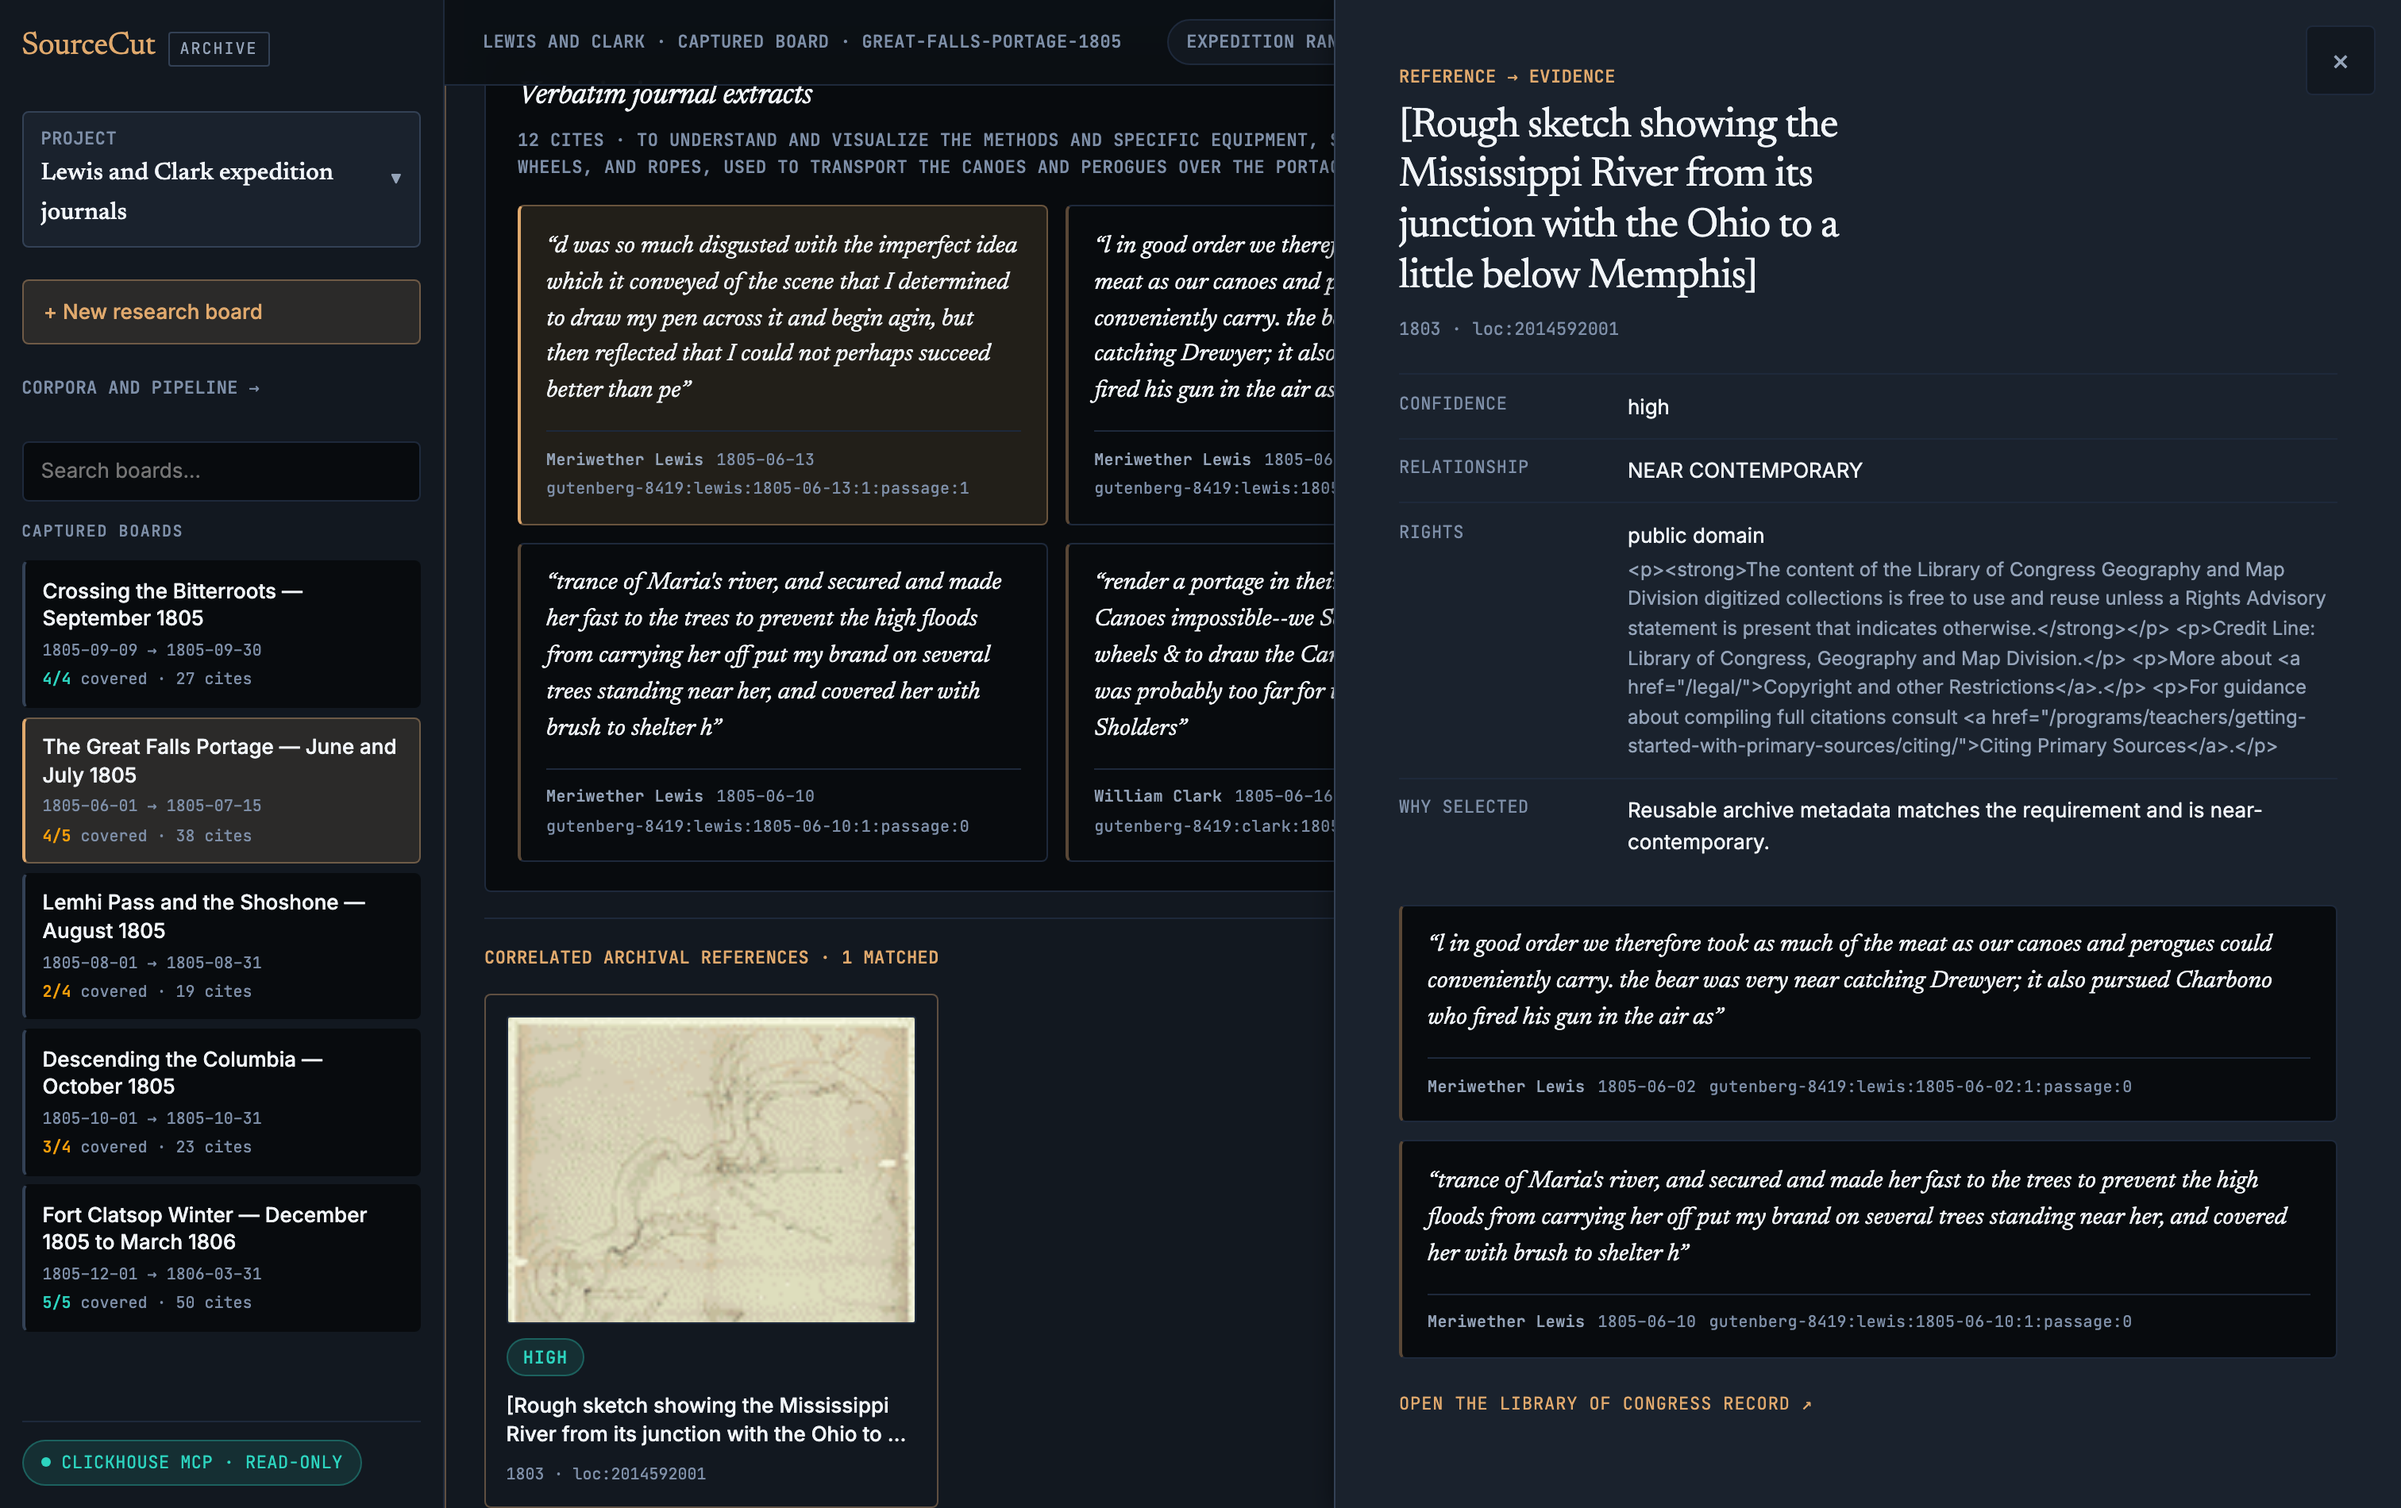
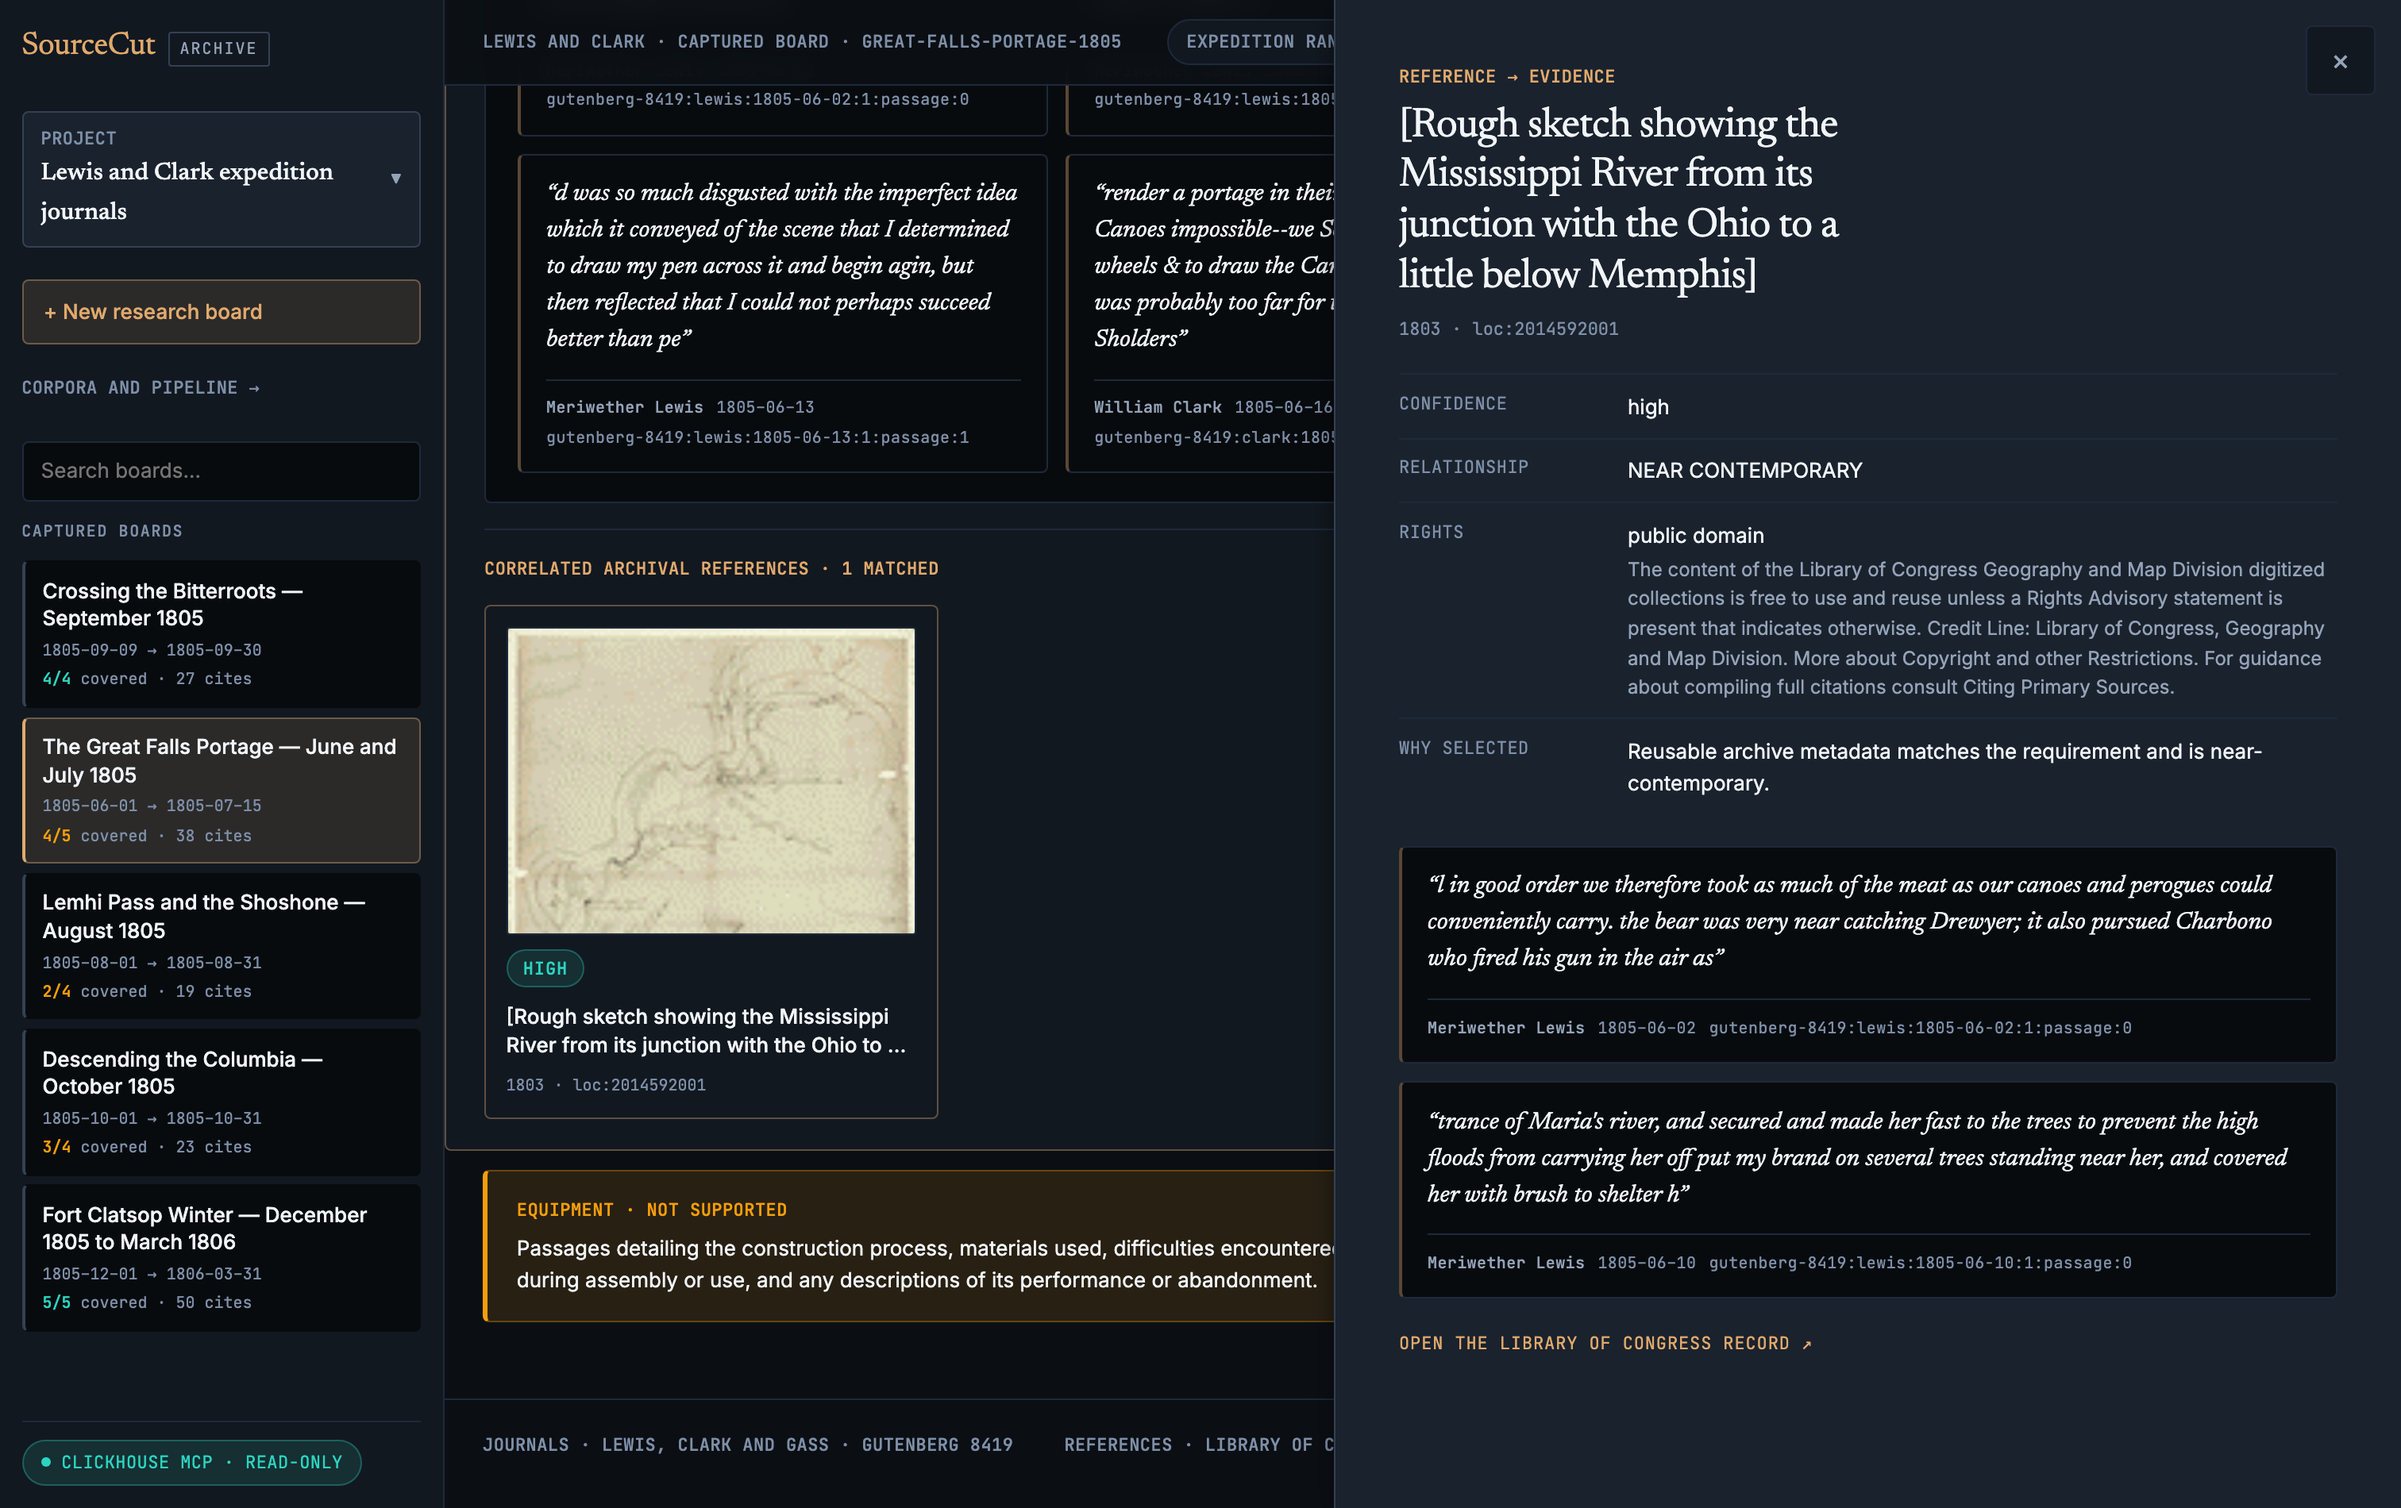
fix(web): show the rights note as words, not as the archive's markup
The Library of Congress writes its restriction statements in HTML, and
the reference drawer was rendering that verbatim: `<p><strong>The content
of the Library of Congress Geography and Map Division…</strong></p>`,
`<a href="/legal/">Copyright and other Restrictions</a>` and all, in the
one panel whose whole job is to say clearly whether an asset can be used.

`plainText` in types.ts turns block tags into breaks, drops the rest, and
puts back the handful of entities a catalogue uses. The stored value is
untouched — this is a rendering fix, so the provenance record keeps
whatever the provider actually sent.

`30-archive-references` and `31-reference-rights` retaken against the
fix. Both still come from the committed board; nothing was staged.

Changed region(s): [[0.1865, 0.0621, 0.5595, 1.0], [0.5595, 0.3726, 0.9947, 0.9005], [0.4352, 0.9316, 0.5284, 0.9626]]

diff --git a/apps/web/src/components/sourcecut/types.ts b/apps/web/src/components/sourcecut/types.ts
@@ -156,6 +156,25 @@ export function formatDate(value: number) {
   return `${text.slice(0, 4)}–${text.slice(4, 6)}–${text.slice(6, 8)}`;
 }
 
+/** Archive rights notes arrive as the provider wrote them, and the Library of
+ *  Congress writes its restriction statements in HTML. Render the words, not
+ *  the markup: a `<p>` becomes a break in the sentence, the rest is dropped,
+ *  and the handful of entities a catalogue uses are put back. */
+export function plainText(value: string) {
+  return value
+    .replace(/<\/(p|div|li|br)\s*>/gi, " ")
+    .replace(/<br\s*\/?>/gi, " ")
+    .replace(/<[^>]*>/g, "")
+    .replace(/&nbsp;/gi, " ")
+    .replace(/&amp;/gi, "&")
+    .replace(/&lt;/gi, "<")
+    .replace(/&gt;/gi, ">")
+    .replace(/&quot;/gi, '"')
+    .replace(/&#39;/g, "'")
+    .replace(/\s+/g, " ")
+    .trim();
+}
+
 export function formatCaptureDate(value: string) {
   const captured = new Date(value);
   return Number.isNaN(captured.valueOf())

diff --git a/apps/web/src/components/sourcecut/BoardWorkspace.tsx b/apps/web/src/components/sourcecut/BoardWorkspace.tsx
@@ -8,6 +8,7 @@ import {
   STATUS_LABEL,
   formatCaptureDate,
   formatDate,
+  plainText,
   type Asset,
   type Board,
   type BoardSummary,
@@ -913,7 +914,7 @@ export default function BoardWorkspace({
             <dt>Rights</dt>
             <dd>
               {selected.asset.rights_status.replaceAll("_", " ")}
-              <small>{selected.asset.rights_text}</small>
+              <small>{plainText(selected.asset.rights_text)}</small>
             </dd>
             <dt>Why selected</dt>
             <dd>{selected.why_selected}</dd>
